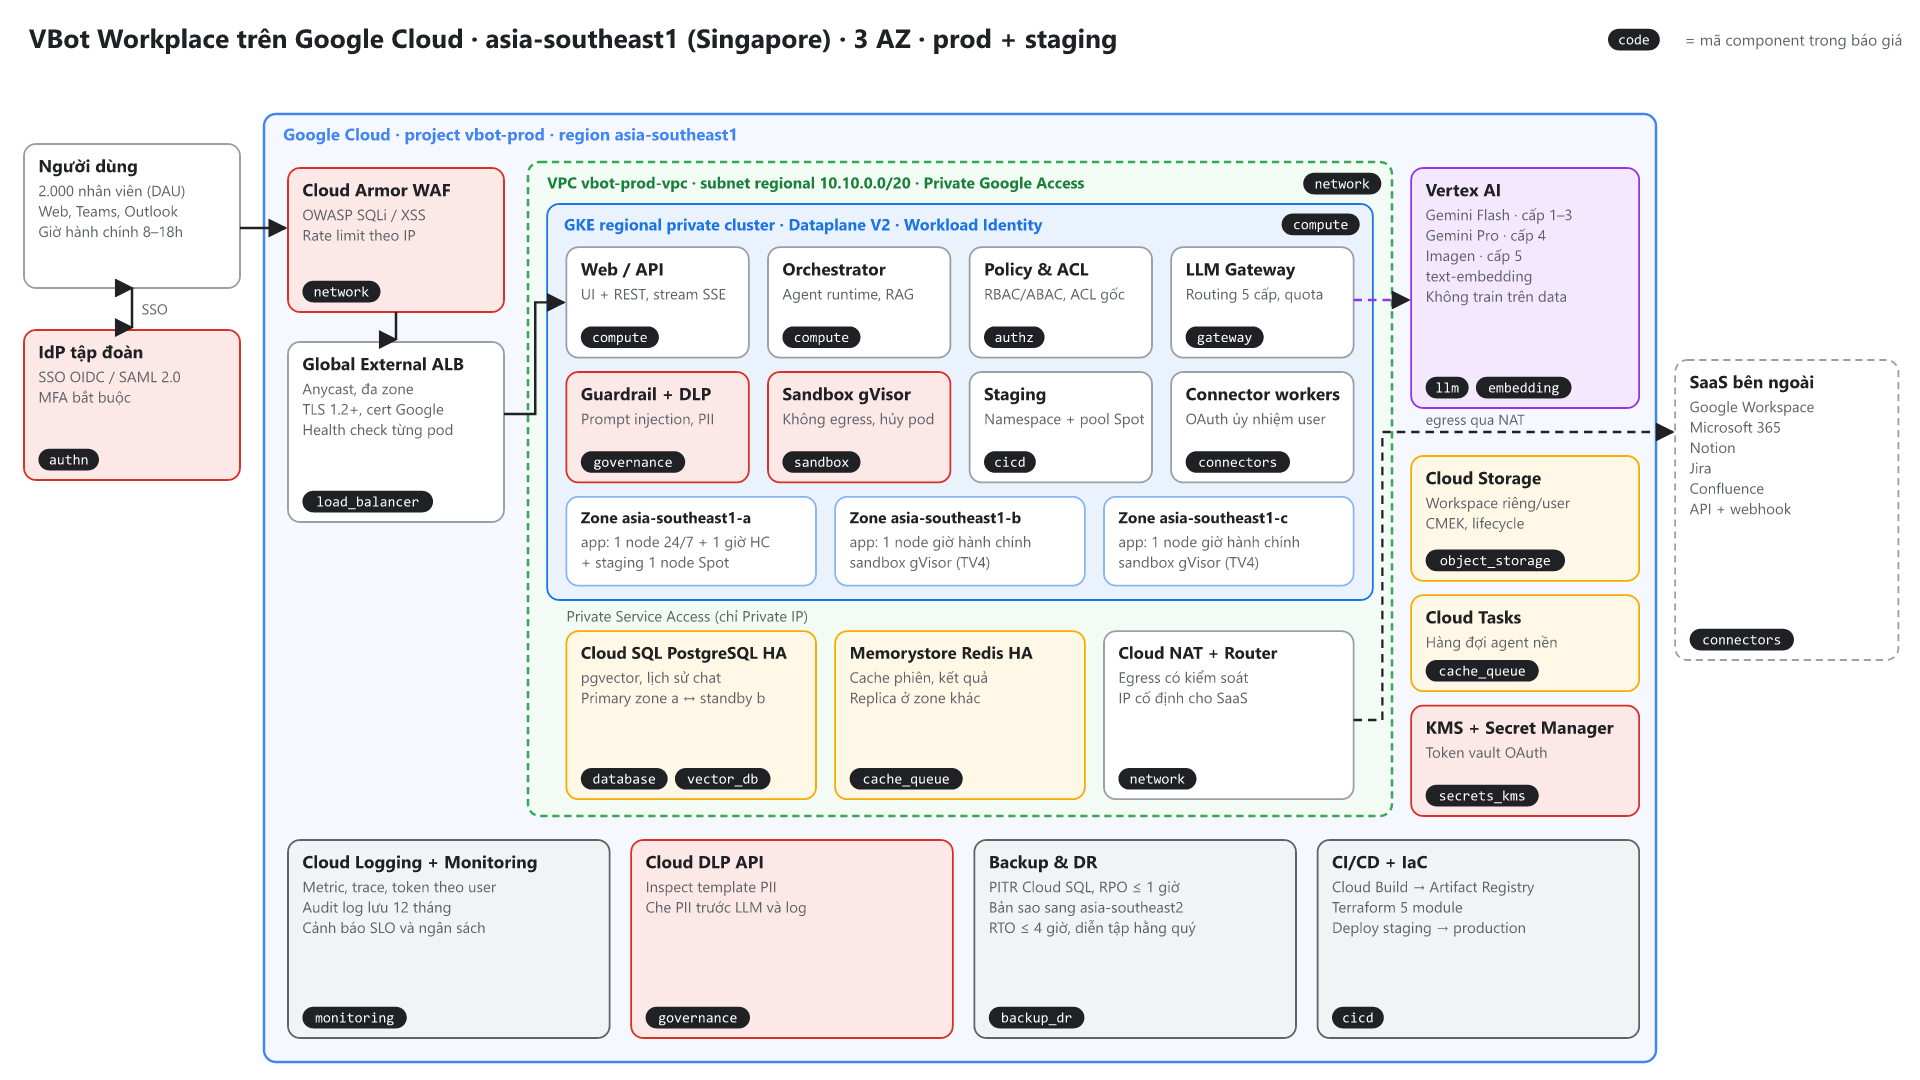
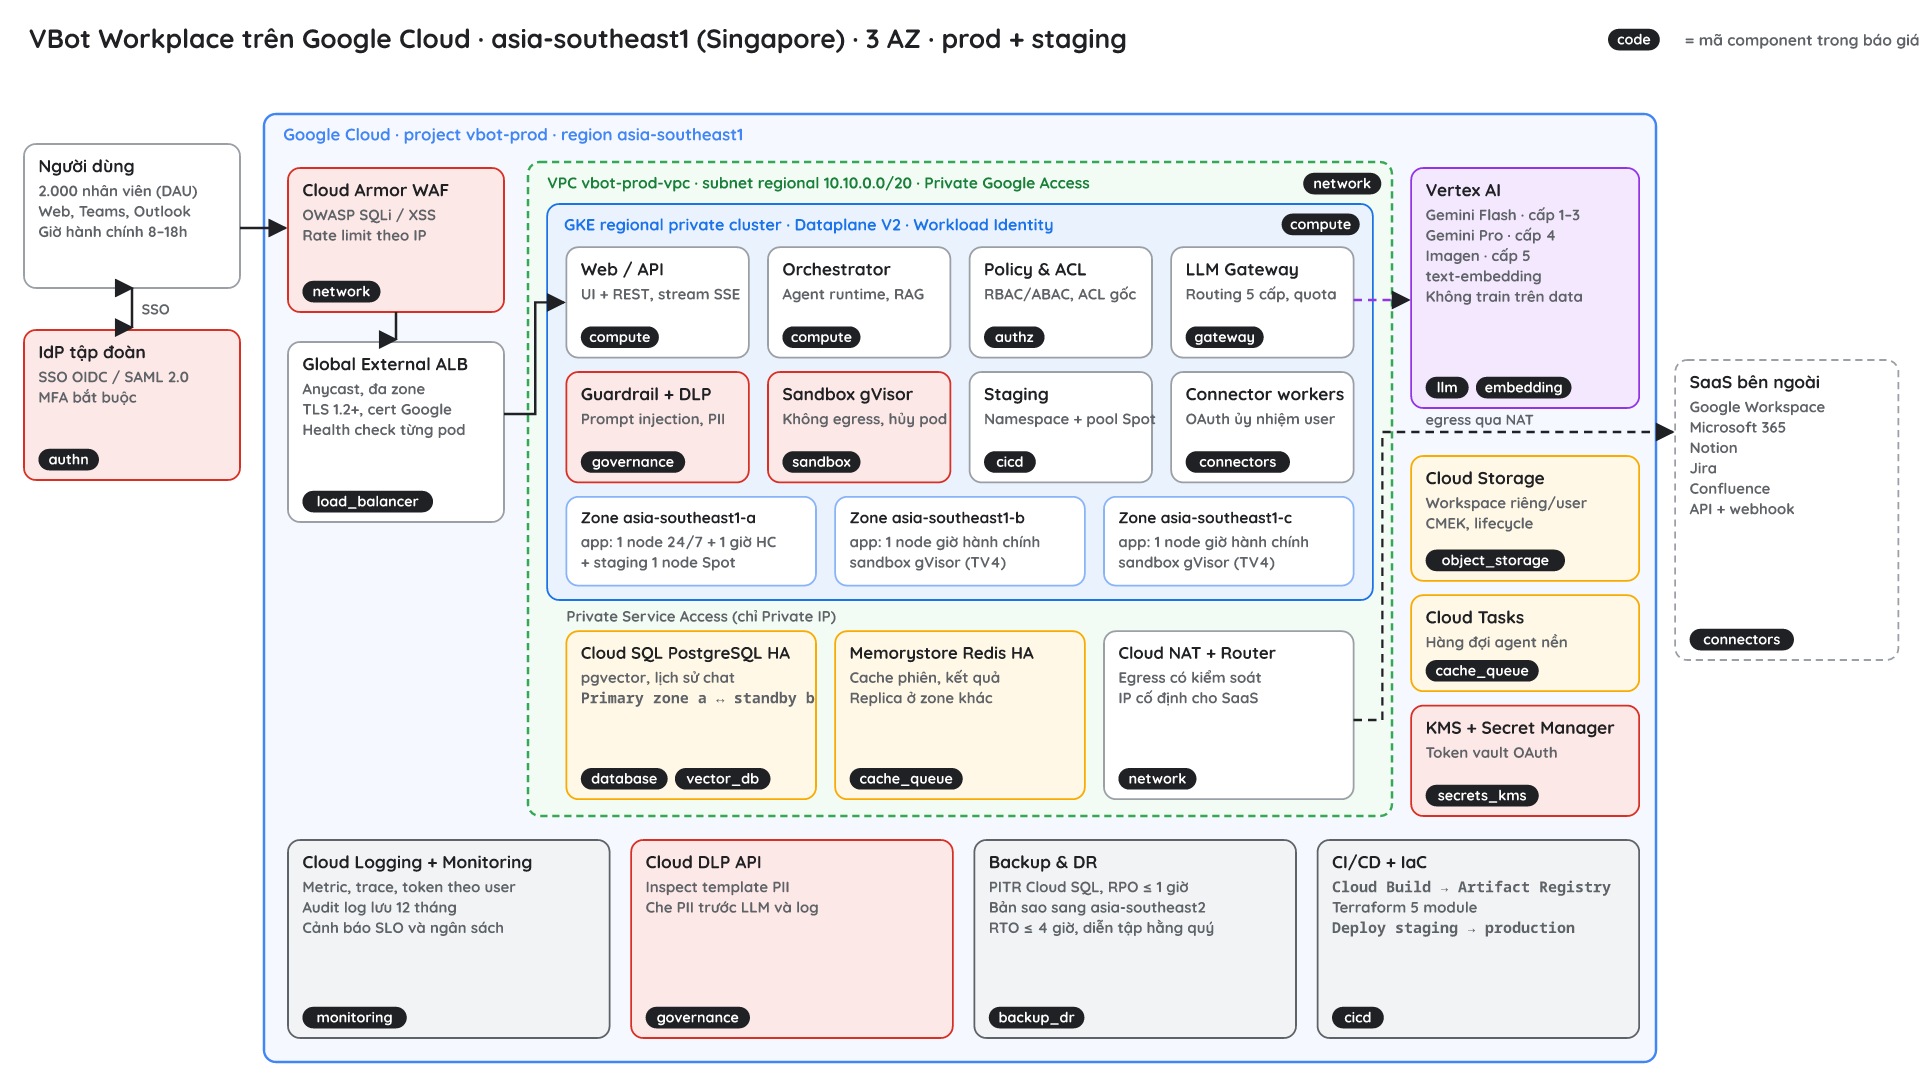
TV1: dong bo TOTAL 11260.64 USD va Slide 11 sau khi merge PR tv3/data-workspace

diff --git a/KICH_BAN_PITCHING_TV1.md b/KICH_BAN_PITCHING_TV1.md
@@ -25,9 +25,9 @@ Mọi con số ở đây khớp với `G03_baogia.xlsx` (validator ĐẠT) và b
 ## Đoạn 2 [06:00 – 07:00]: Slide 11, chi phí và kết luận
 
 ### [06:00 – 06:35] Slide 11: Tổng chi phí (35 giây)
-> "Tổng chi phí là **11.218,97 USD mỗi tháng, tức 5,61 USD cho mỗi người dùng**. Con số này khớp dòng TOTAL trong file báo giá và đã qua công cụ kiểm tra.
-> Ba khoản lớn nhất là nhân sự vận hành 3.500 USD, token LLM 3.369 USD, và SSO kèm MFA 2.000 USD. Riêng phần hạ tầng compute, mạng và LB chỉ khoảng **420 USD**.
-> Đòn bẩy tiết kiệm: routing 85% tác vụ sang Gemini Flash và Context Caching giảm khoảng **3.150 USD**. Phía hạ tầng, autoscale theo giờ hành chính, cam kết 1 năm cho node nền và staging chạy Spot trên chung cluster giảm thêm **469 USD**. Tổng cộng khoảng **3.600 USD mỗi tháng**."
+> "Tổng chi phí là **11.260,64 USD mỗi tháng, tức 5,63 USD cho mỗi người dùng**. Con số này khớp dòng TOTAL trong file báo giá và đã qua công cụ kiểm tra.
+> Các khoản lớn nhất là nhân sự vận hành 3.500 USD, token LLM 3.369 USD, SSO kèm MFA 2.000 USD, và cơ sở dữ liệu 546 USD. Riêng phần hạ tầng compute, mạng và LB chỉ khoảng **420 USD**.
+> Đòn bẩy tiết kiệm: routing 85% tác vụ sang Gemini Flash và Context Caching giảm khoảng **3.150 USD**. Phía hạ tầng, autoscale theo giờ hành chính, cam kết 1 năm cho node nền và staging chạy Spot trên chung cluster giảm thêm **469 USD**. Tầng dữ liệu tối ưu lifecycle Nearline và pgvector tiết kiệm thêm **323 USD**. Tổng cộng tiết kiệm khoảng **3.940 USD mỗi tháng**."
 
 ### [06:35 – 07:00] Mở rộng và kết luận (25 giây)
 > "Khi DAU tăng gấp đôi, phần cố định gồm GKE, LB, WAF và nhân sự giữ nguyên. Node app lúc cao điểm tăng từ 4 lên khoảng 7, phần hạ tầng tăng khoảng **210 USD**. Khoản tăng lớn nhất là token, tăng tuyến tính, và được chặn bằng quota theo user cùng cảnh báo ngân sách.
@@ -53,7 +53,7 @@ Mọi con số ở đây khớp với `G03_baogia.xlsx` (validator ĐẠT) và b
 > Có 3 lý do. Sandbox cần node pool gVisor riêng có NetworkPolicy chặn egress, và việc này dễ kiểm soát trên GKE. Agent chạy nền tới 10 phút. Ở 3,5 RPS lúc cao điểm, 4 node e2-standard-4 cho chi phí ổn định, có thể mua cam kết 1 năm. Cloud Run hợp cho tải thất thường, còn tải giờ hành chính ở đây đều và đoán trước được.
 
 **6. "Vì sao chỉ 1 FTE vận hành, và chọn Standard Support?"**
-> Hạ tầng hầu hết là dịch vụ managed (GKE, Cloud SQL, Redis, LB) và được dựng hoàn toàn bằng Terraform, nên 1 SRE/MLOps làm việc giờ hành chính kiêm on-call là đủ. Standard Support tính 3% chi phí cloud, tức 214,98 USD. Lên Enhanced Support (10%) sẽ thêm khoảng 500 USD mà không cải thiện RTO 4 giờ, vì failover đã tự động.
+> Hạ tầng hầu hết là dịch vụ managed (GKE, Cloud SQL, Redis, LB) và được dựng hoàn toàn bằng Terraform, nên 1 SRE/MLOps làm việc giờ hành chính kiêm on-call là đủ. Standard Support tính 3% chi phí cloud, tức 216,19 USD. Lên Enhanced Support (10%) sẽ thêm khoảng 500 USD mà không cải thiện RTO 4 giờ, vì failover đã tự động.
 
 **7. "Giá trong báo giá lấy ở đâu?"**
 > Từ Cloud Billing Catalog API của Google, giá niêm yết công khai ngày 2026-10-16, region asia-southeast1. Mỗi dòng ghi SKU ID, và sheet BangChung có link tới trang giá chính thức. Không dùng free tier hay credit nào.

diff --git a/README.md b/README.md
@@ -32,8 +32,8 @@ Thành viên 2 phụ trách **"Trái tim"** của hệ thống: Bài toán Sizin
    * File: [G03_baogia.xlsx](G03_baogia.xlsx)
    * Script sinh tự động: [generate_baogia.py](generate_baogia.py)
    * Script kiểm thử validator: [validate_baogia.mjs](validate_baogia.mjs)
-   * Kết quả: **Verdict OK: ĐẠT (XANH LÁ)**, 0 lỗi, 0 cảnh báo. Tổng chi phí: **$11.218,97 / tháng** (~$5.61 / DAU / tháng).
-   * ⚠ **Bản chốt (TV1):** các dòng `compute`, `load_balancer`, `network`, `cicd`, `ops_labor`, `licenses`, `contingency` đã được TV1 tính lại theo giá Singapore có SKU. File được sinh bằng `node baogia/build_baogia.js` (giữ nguyên các dòng của TV2/TV3/TV4 trong [baogia/team_rows.json](baogia/team_rows.json)). **Không chạy lại `generate_baogia.py`** vì sẽ ghi đè các dòng TV1. Muốn sửa dòng của mình thì sửa `team_rows.json` rồi chạy lại `build_baogia.js`.
+   * Kết quả: **Verdict OK: ĐẠT (XANH LÁ)**, 0 lỗi, 0 cảnh báo. Tổng chi phí: **$11.260,64 / tháng** (~$5.63 / DAU / tháng).
+   * ⚠ **Bản chốt (TV1 & TV3):** các dòng `compute`, `load_balancer`, `network`, `cicd`, `ops_labor`, `licenses`, `contingency` (TV1) và `database`, `cache_queue`, `object_storage`, `connectors`, `vector_db` (TV3) đã được chuẩn hóa theo giá Singapore có SKU chính thức. File được sinh bằng `node baogia/build_baogia.js` (dòng TV2/TV3/TV4 nằm trong [baogia/team_rows.json](baogia/team_rows.json)). **Không chạy lại `generate_baogia.py`** vì sẽ ghi đè các dòng chuẩn hóa. Muốn sửa dòng của mình thì sửa `team_rows.json` rồi chạy lại `build_baogia.js`.
 5. 💻 **Mã Nguồn Microservice AI Gateway:**
    * File: [ai_gateway_service.py](ai_gateway_service.py)
    * Tích hợp gọi thực tế Vertex AI Google Cloud với model `gemini-3.8-flash`, hỗ trợ dynamic routing 5 cấp độ, tính toán quota H8 và đo SLA TTFT H6.

diff --git a/slides/TV1_slide_2_3_11.md b/slides/TV1_slide_2_3_11.md
@@ -31,18 +31,18 @@ Lời nói đầy đủ cho từng slide nằm ở [../KICH_BAN_PITCHING_TV1.md]
 
 ## Slide 11: Chi phí hằng tháng
 
-**Tiêu đề:** Chi phí hằng tháng: 11,218.97 USD · 5.61 USD/DAU
+**Tiêu đề:** Chi phí hằng tháng: 11,260.64 USD · 5.63 USD/DAU
 
 **5 hạng mục lớn nhất** (theo `G03_baogia.xlsx`):
 
 | # | Component | USD/tháng | % tổng |
 |---|---|---|---|
-| 1 | ops_labor | 3,500.00 | 31.2% |
-| 2 | llm | 3,369.01 | 30.0% |
+| 1 | ops_labor | 3,500.00 | 31.1% |
+| 2 | llm | 3,369.01 | 29.9% |
 | 3 | authn | 2,000.00 | 17.8% |
-| 4 | database | 365.40 | 3.3% |
+| 4 | database | 545.82 | 4.8% |
 | 5 | contingency | 338.10 | 3.0% |
-| | 17 component còn lại | 1,646.46 | 14.7% |
+| | 17 component còn lại | 1,507.71 | 13.4% |
 
 **Đòn bẩy tiết kiệm (USD/tháng):**
 
